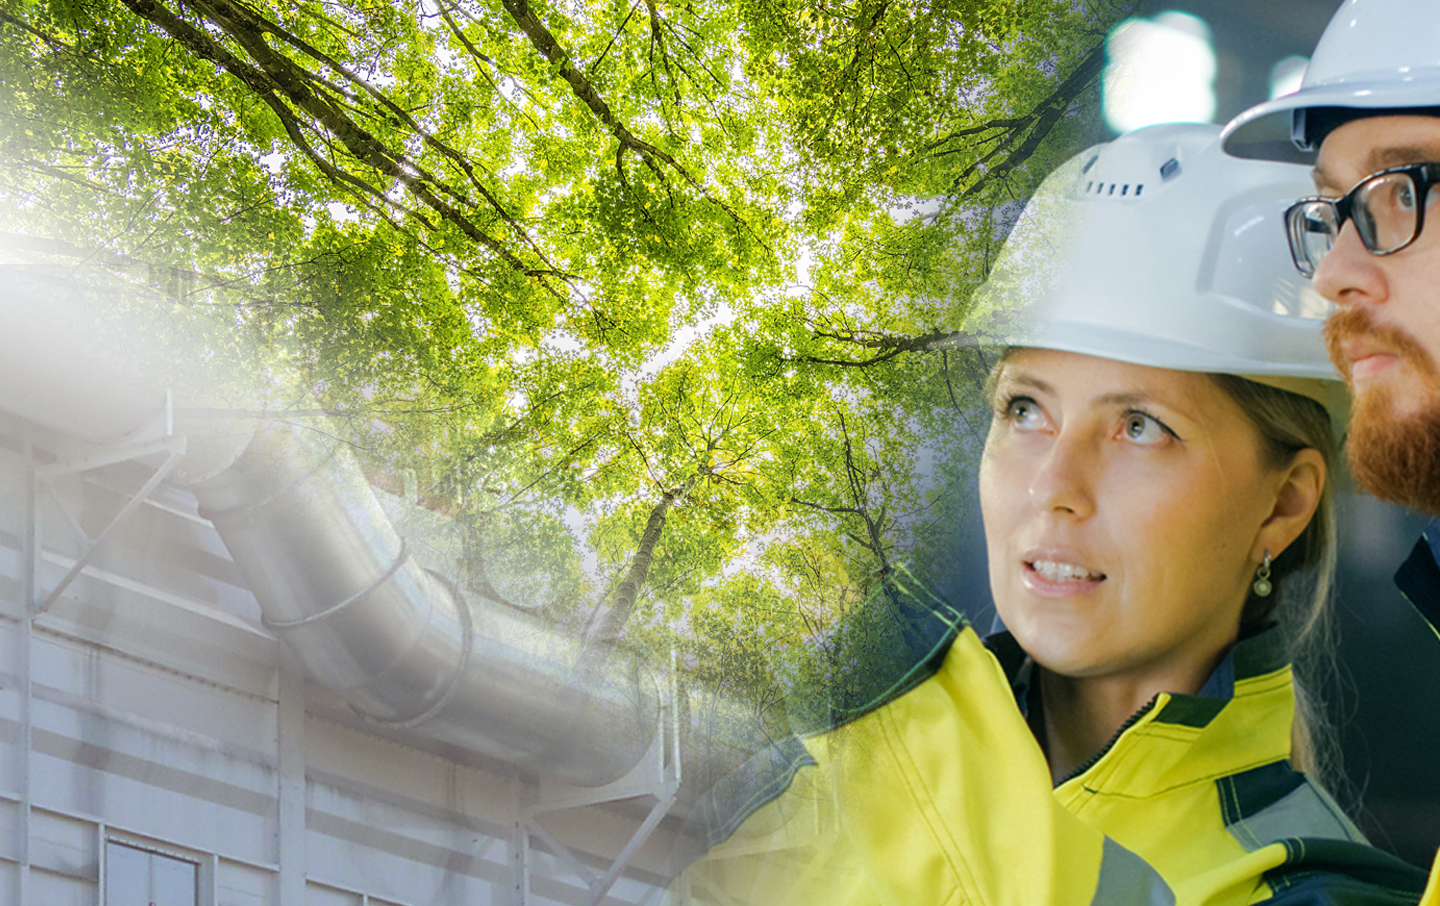
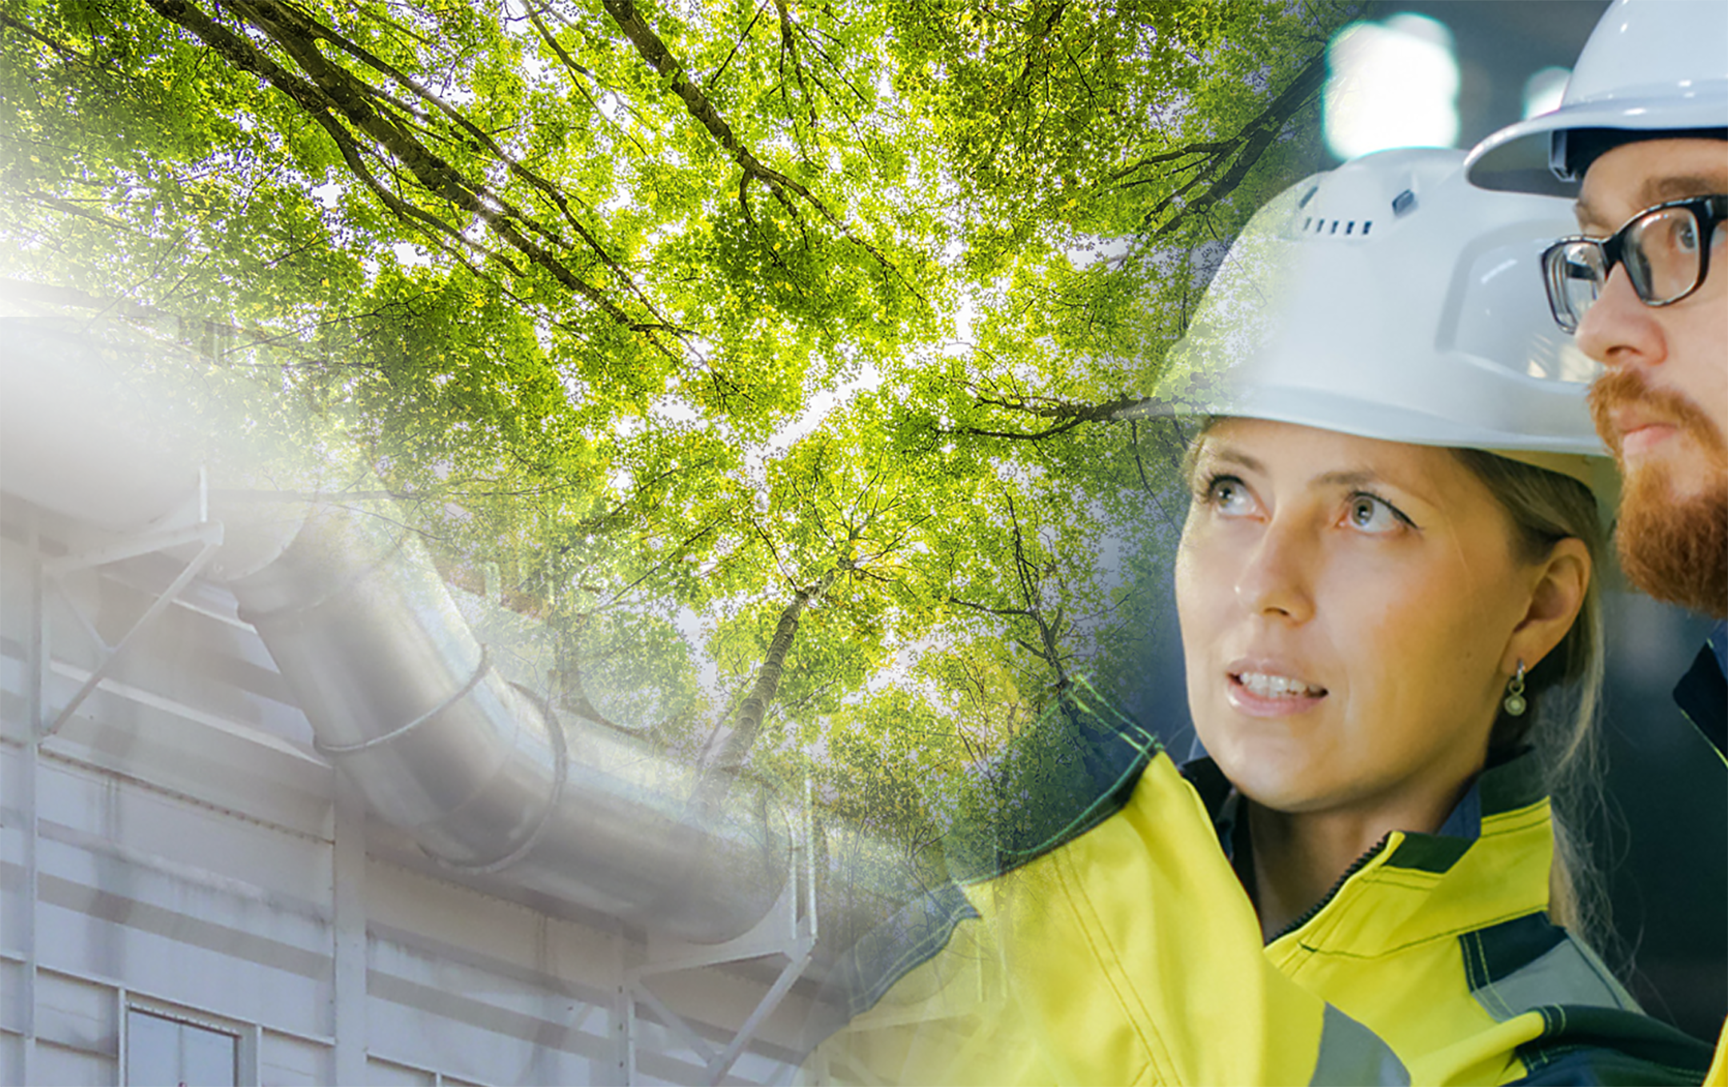
Modif 15h15

diff --git a/assets/css/style.min.css b/assets/css/style.min.css
@@ -1,1 +1,1 @@
-.container{max-width:1200px;width:95%;margin:auto}.w100{width:100%}.w50{width:50%}.btn{background-color:#8bb53c;border-radius:15px;padding:15px 30px;box-shadow:2px 2px 5px rgba(0,0,0,.487);color:#fff;text-transform:uppercase;text-decoration:none;font-weight:600;font-size:18px;display:table;margin-top:20px;transition:.25s all linear}.btn:hover{transform:scale(1.2, 1.2)}.bg-blue{background:#263c59;background-size:50%}*{margin:0;padding:0;box-sizing:border-box}body{font-family:"montserrat";width:calc(100% - 70px)}h1,h2,h3,h4,h5,h6{font-family:"canaro"}img{max-width:100%;height:auto}h2{font-weight:600;font-size:30px;text-transform:uppercase;padding-bottom:30px;color:#263c59;text-align:left}h3{font-weight:600;font-size:16px;text-transform:uppercase;color:#8bb53c;text-align:center}p{font-size:16px}p strong{font-weight:600}@font-face{font-family:"canaro";src:url("fonts/Canaro-Bold.otf");font-weight:bold}@font-face{font-family:"canaro";src:url("fonts/Canaro-SemiBold.otf");font-weight:600}@font-face{font-family:"canaro";src:url("fonts/Canaro-Medium.otf");font-weight:500}@font-face{font-family:"canaro";src:url("fonts/Canaro-Light.otf");font-weight:200}@font-face{font-family:"montserrat";src:url("fonts/Montserrat-VariableFont_wght.ttf")}header{display:flex;align-items:center;height:100wh}header form{display:flex;flex-wrap:wrap;gap:20px;justify-content:space-between;padding:20px}header form input:not([type=submit]){width:100%;border:none;border-bottom:1px solid #000}header form .w50{width:calc(50% - 20px)}header form input[type=submit]{background-color:#8bb53c;border:none;box-shadow:none;padding:20px;color:#fff;font-family:"canaro";font-weight:bold}.logo{width:15%}.logo img{width:100%;height:auto}.menu{width:80%;display:flex;font-size:14px;padding:30px 0}.menu ul{display:flex;justify-content:space-evenly;list-style-type:none;width:100%;text-transform:uppercase}.menu ul li a{display:block;color:#263c59;text-decoration:none;width:100%;height:100%;font-size:16px;font-weight:600}.menucontact{width:70px;background-color:#fff;position:fixed;z-index:1;right:0;top:0;height:100%}.menucontact ul{height:100%;display:flex;flex-direction:column;list-style-type:none;box-shadow:2px 2px 5px #000}.menucontact ul li{width:100%;height:50%;-ms-writing-mode:tb-rl;writing-mode:vertical-rl;text-orientation:mixed;transform:rotate(180deg)}.menucontact ul li:last-child{text-align:right;border-bottom:1px solid #000}.menucontact ul li a{display:flex;justify-content:center;align-items:center;text-decoration:none;width:100%;height:100%;text-align:center;text-transform:uppercase;font-size:16px;font-weight:400;color:#263c59}.projet{display:none;width:calc(100% - 70px);height:100%;background-color:#fff;position:fixed;right:0;top:0;z-index:1}.home .bg-home{background-image:url("../img/home.png");background-size:cover;min-height:calc(100vh - 75px);color:#fff;background-position:right left;-webkit-animation:zoom 50s linear infinite;animation:zoom 50s linear infinite;background-attachment:fixed}@-webkit-keyframes zoom{0%{background-size:100%}50%{background-size:110%}100%{background-size:100%}}@keyframes zoom{0%{background-size:100%}50%{background-size:110%}100%{background-size:100%}}.home .bg-home .bg-black{background-color:rgba(0,0,0,.495);height:100%;min-height:calc(100vh - 75px);display:flex;align-items:center}.home .bg-home .bg-black>div{display:flex}.home .bg-home .bg-black>div h1{text-transform:uppercase;padding:50px 0;font-weight:bold;letter-spacing:5px}.home .bg-home .bg-black>div h1::first-line{font-size:70px}.home .bg-home .bg-black>div h2{color:#fff;padding-bottom:15px;text-align:left;letter-spacing:5px}.home .bg-home .bg-black>div h2:first-of-type{padding-top:0}.home .bg-home .bg-black>div p{line-height:150%}.home .activites{display:flex;flex-wrap:wrap;gap:30px;padding:30px 0}.home .activites .bloc-secteur{width:calc(33.3333333333% - 20px);aspect-ratio:16/9;display:flex;justify-content:center;align-items:flex-end;padding:18px;background-repeat:no-repeat;background-size:cover;position:relative;overflow:hidden;border-radius:15px}.home .activites .bloc-secteur h3{font-weight:600;font-size:16px;background-color:#fff;color:#263c59}.home .activites .bloc-secteur:hover .bloc-contenu{top:0}.home .activites .bloc-secteur .btn{display:block;width:100%;text-align:center}.home .activites .bloc-secteur .btn:hover{transform:scale(1.09, 1.09)}.home .activites .bloc-secteur .bloc-contenu{background-color:rgba(255,255,255,.85);position:absolute;padding:18px;top:100%;left:0;display:flex;width:100%;height:100%;flex-direction:column;justify-content:flex-end;align-items:center;transition:.25s all linear;text-align:center;color:#263c59}.home .activites .agroalimentaire{background-image:url("../img/Agroalimentaire.png")}.home .activites .mineral{background-image:url("../img/minerale.png")}.home .activites .recyclage{background-image:url("../img/Agroalimentaire.png")}.home .activites .caoutchouc{background-image:url("../img/caoutchouc-plastique.png")}.home .activites .bois{background-image:url("../img/bois.png")}.home .activites .mettalurgie{background-image:url("../img/metalurgie.png")}.home .activites .papier{background-image:url("../img/papier-textile.png")}.home .activites .chimie{background-image:url("../img/chimie-pharma.png")}.home .activites .auto{background-image:url("../img/Auto-aero.png")}.home .atex{background-color:#263c59;color:#fff;padding:60px 0}.home .atex .container{display:flex;justify-content:space-between}.home .atex .container h2{color:inherit;text-align:left;padding-top:0}.home .atex .container p{margin-bottom:15px}.home .atex .container div:first-of-type{width:60%}.home .atex .container div:last-of-type{width:30%}.home .atex .container img{border-radius:15px}.home .savoirFaire{padding:60px 0}.home .savoirFaire .bloc-savoirfaire{display:flex;flex-wrap:wrap;align-content:space-evenly;justify-content:center;aspect-ratio:1/1;padding:18px;background:#263c59;border-radius:15px;box-shadow:2px 2px 5px rgba(0,0,0,.509)}.home .savoirFaire .ligneSavoirFaire{display:flex;flex-wrap:wrap;gap:60px}.home .savoirFaire .ligneSavoirFaire div{padding:30px;width:calc(33.3333333333% - 40px)}.home .savoirFaire .ligneSavoirFaire h2{width:100%}.home .savoirFaire .ligneSavoirFaire h3{font-size:18px;color:#fff}.home .savoirFaire .ligneSavoirFaire p{font-size:14px;color:#fff;text-align:center}.home .savoirFaire .ligneSavoirFaire .btn{display:block;width:100%;text-align:center}.home .savoirFaire .ligneSavoirFaire .btn:hover{transform:scale(1.09, 1.09)}.home .produits{display:flex;background:#263c59;padding:60px 0}.home .produits h2{color:#fff;padding:30px 0}.home .realisation{display:flex;padding:60px 0}.bg-footer{background:url("../img/fond footer.png");background-repeat:no-repeat;background-size:cover;border-top:5px solid #8bb53c}.bg-footer nav{margin-bottom:40px}.bg-footer ul{display:flex;justify-content:space-between;list-style-type:none;width:100%;text-transform:uppercase}.bg-footer ul li a{display:block;color:#fff;text-decoration:none;width:100%;font-size:16px;font-weight:600}.bg-footer img{display:block;margin:5% auto;max-width:20%;padding-bottom:30px}.bg-footer hr{border-color:#8bb53c}.bg-footer .ligne{display:flex}.bg-footer .ligne div{width:50%;margin:5%}.bg-footer .d-f{display:flex;margin:30px;justify-content:space-evenly}.bg-footer h3{color:#fff}.bg-footer p{color:#fff;text-align:center;font-size:14px;font-weight:300}.bg-footer a{color:#fff;text-decoration:none;font-size:14px;font-weight:300}.bg-footer i{color:#fff;font-size:32px}.ligne-2{display:flex}.ligne-2 div{border-width:50%;width:50%}/*# sourceMappingURL=style.min.css.map */
+.container{max-width:1200px;width:95%;margin:auto}.w100{width:100%}.w50{width:55%}.btn{background-color:#8bb53c;border-radius:15px;padding:15px 30px;box-shadow:2px 2px 5px rgba(0,0,0,.487);color:#fff;text-transform:uppercase;text-decoration:none;font-weight:600;font-size:18px;display:table;margin-top:20px;transition:.25s all linear}.btn:hover{transform:scale(1.2, 1.2)}.bg-blue{background:#263c59;background-size:50%}*{margin:0;padding:0;box-sizing:border-box}body{font-family:"montserrat";width:calc(100% - 70px)}h1,h2,h3,h4,h5,h6{font-family:"canaro"}img{max-width:100%;height:auto}h2{font-weight:600;font-size:30px;text-transform:uppercase;padding-bottom:30px;color:#263c59;text-align:left}h3{font-weight:600;font-size:16px;text-transform:uppercase;color:#8bb53c;text-align:center}p{font-size:16px}p strong{font-weight:600}@font-face{font-family:"canaro";src:url("fonts/Canaro-Bold.otf");font-weight:bold}@font-face{font-family:"canaro";src:url("fonts/Canaro-SemiBold.otf");font-weight:600}@font-face{font-family:"canaro";src:url("fonts/Canaro-Medium.otf");font-weight:500}@font-face{font-family:"canaro";src:url("fonts/Canaro-Light.otf");font-weight:200}@font-face{font-family:"montserrat";src:url("fonts/Montserrat-VariableFont_wght.ttf")}header{display:flex;align-items:center;height:100wh}header form{display:flex;flex-wrap:wrap;gap:20px;justify-content:space-between;padding:20px}header form input:not([type=submit]){width:100%;border:none;border-bottom:1px solid #000}header form .w50{width:calc(50% - 20px)}header form input[type=submit]{background-color:#8bb53c;border:none;box-shadow:none;padding:20px;color:#fff;font-family:"canaro";font-weight:bold}.logo{width:15%}.logo img{width:100%;height:auto}.menu{width:80%;display:flex;font-size:14px;padding:30px 0}.menu ul{display:flex;justify-content:space-evenly;list-style-type:none;width:100%;text-transform:uppercase}.menu ul li a{display:block;color:#263c59;text-decoration:none;width:100%;height:100%;font-size:16px;font-weight:600}.menucontact{width:70px;background-color:#fff;position:fixed;z-index:1;right:0;top:0;height:100%}.menucontact ul{height:100%;display:flex;flex-direction:column;list-style-type:none;box-shadow:2px 2px 5px #000}.menucontact ul li{width:100%;height:50%;-ms-writing-mode:tb-rl;writing-mode:vertical-rl;text-orientation:mixed;transform:rotate(180deg)}.menucontact ul li:last-child{text-align:right;border-bottom:1px solid #000}.menucontact ul li a{display:flex;justify-content:center;align-items:center;text-decoration:none;width:100%;height:100%;text-align:center;text-transform:uppercase;font-size:16px;font-weight:400;color:#263c59}.projet{display:none;width:calc(100% - 70px);height:100%;background-color:#fff;position:fixed;right:0;top:0;z-index:1}.home .bg-home{min-height:calc(100vh - 75px);color:#fff;position:relative;overflow:hidden}.home .bg-home img{position:absolute;-o-object-fit:cover;object-fit:cover;-o-object-position:right center;object-position:right center;z-index:-1;width:100%;height:100%;-webkit-animation:zoom 55s linear infinite;animation:zoom 55s linear infinite}@-webkit-keyframes zoom{0%{transform:scale(1)}50%{transform:scale(1.2)}100%{transform:scale(1)}}@keyframes zoom{0%{transform:scale(1)}50%{transform:scale(1.2)}100%{transform:scale(1)}}.home .bg-home .bg-black{background-color:rgba(0,0,0,.495);height:100%;min-height:calc(100vh - 75px);display:flex;align-items:center}.home .bg-home .bg-black>div{display:flex}.home .bg-home .bg-black>div h1{text-transform:uppercase;padding:50px 0;font-weight:bold;letter-spacing:5px}.home .bg-home .bg-black>div h1::first-line{font-size:70px}.home .bg-home .bg-black>div h2{color:#fff;padding-bottom:15px;text-align:left;letter-spacing:5px}.home .bg-home .bg-black>div h2:first-of-type{padding-top:0}.home .bg-home .bg-black>div p{line-height:150%}.home .bg-home .bg-black>div a{margin-bottom:30px}.home .activites{display:flex;flex-wrap:wrap;gap:30px;padding:30px 0}.home .activites .bloc-secteur{width:calc(33.3333333333% - 20px);aspect-ratio:16/9;display:flex;justify-content:center;align-items:flex-end;padding:18px;background-repeat:no-repeat;background-size:cover;position:relative;overflow:hidden;border-radius:15px}.home .activites .bloc-secteur h3{font-weight:600;font-size:16px;background-color:#fff;color:#263c59}.home .activites .bloc-secteur:hover .bloc-contenu{top:0}.home .activites .bloc-secteur .btn{display:block;width:100%;text-align:center}.home .activites .bloc-secteur .btn:hover{transform:scale(1.09, 1.09)}.home .activites .bloc-secteur .bloc-contenu{background-color:rgba(255,255,255,.85);position:absolute;padding:18px;top:100%;left:0;display:flex;width:100%;height:100%;flex-direction:column;justify-content:flex-end;align-items:center;transition:.25s all linear;text-align:center;color:#263c59}.home .activites .agroalimentaire{background-image:url("../img/Agroalimentaire.png")}.home .activites .mineral{background-image:url("../img/minerale.png")}.home .activites .recyclage{background-image:url("../img/Agroalimentaire.png")}.home .activites .caoutchouc{background-image:url("../img/caoutchouc-plastique.png")}.home .activites .bois{background-image:url("../img/bois.png")}.home .activites .mettalurgie{background-image:url("../img/metalurgie.png")}.home .activites .papier{background-image:url("../img/papier-textile.png")}.home .activites .chimie{background-image:url("../img/chimie-pharma.png")}.home .activites .auto{background-image:url("../img/Auto-aero.png")}.home .atex{background-color:#263c59;color:#fff;padding:60px 0}.home .atex .container{display:flex;justify-content:space-between}.home .atex .container h2{color:inherit;text-align:left;padding-top:0}.home .atex .container p{margin-bottom:15px}.home .atex .container div:first-of-type{width:60%}.home .atex .container div:last-of-type{width:30%}.home .atex .container img{border-radius:15px}.home .savoirFaire{padding:60px 0}.home .savoirFaire .bloc-savoirfaire{display:flex;flex-wrap:wrap;align-content:space-evenly;justify-content:center;aspect-ratio:1/1;padding:18px;background:#263c59;border-radius:15px;box-shadow:2px 2px 5px rgba(0,0,0,.509)}.home .savoirFaire .ligneSavoirFaire{display:flex;flex-wrap:wrap;gap:60px}.home .savoirFaire .ligneSavoirFaire div{padding:30px;width:calc(33.3333333333% - 40px)}.home .savoirFaire .ligneSavoirFaire h2{width:100%}.home .savoirFaire .ligneSavoirFaire h3{font-size:18px;color:#fff}.home .savoirFaire .ligneSavoirFaire p{font-size:14px;color:#fff;text-align:center}.home .savoirFaire .ligneSavoirFaire .btn{display:block;width:100%;text-align:center}.home .savoirFaire .ligneSavoirFaire .btn:hover{transform:scale(1.09, 1.09)}.home .produits{display:flex;background:#263c59;padding:60px 0}.home .produits h2{color:#fff;padding:30px 0}.home .realisation{display:flex;padding:60px 0}.bg-footer{background:url("../img/fond footer.png");background-repeat:no-repeat;background-size:cover;border-top:5px solid #8bb53c}.bg-footer nav{margin-bottom:40px}.bg-footer ul{display:flex;justify-content:space-between;list-style-type:none;width:100%;text-transform:uppercase}.bg-footer ul li a{display:block;color:#fff;text-decoration:none;width:100%;font-size:16px;font-weight:600}.bg-footer img{display:block;margin:5% auto;max-width:20%;padding-bottom:30px}.bg-footer hr{border-color:#8bb53c}.bg-footer .ligne{display:flex}.bg-footer .ligne div{width:50%;margin:5%}.bg-footer .d-f{display:flex;margin:30px;justify-content:space-evenly}.bg-footer h3{color:#fff}.bg-footer p{color:#fff;text-align:center;font-size:14px;font-weight:300}.bg-footer a{color:#fff;text-decoration:none;font-size:14px;font-weight:300}.bg-footer i{color:#fff;font-size:32px}.ligne-2{display:flex}.ligne-2 div{border-width:50%;width:50%}/*# sourceMappingURL=style.min.css.map */

diff --git a/assets/css/style.css b/assets/css/style.css
@@ -10,7 +10,7 @@
 }
 
 .w50 {
-  width: 50%;
+  width: 55%;
 }
 
 .btn {
@@ -225,36 +225,44 @@ header form input[type=submit] {
 }
 
 .home .bg-home {
-  background-image: url("../img/home.png");
-  background-size: cover;
   min-height: calc(100vh - 75px);
   color: white;
-  /******* effet parallax****/
-  background-position: right left;
-  -webkit-animation: zoom 50s linear infinite;
-          animation: zoom 50s linear infinite;
-  background-attachment: fixed;
+  position: relative;
+  overflow: hidden;
+  /* effet parallax */
+}
+.home .bg-home img {
+  position: absolute;
+  -o-object-fit: cover;
+     object-fit: cover;
+  -o-object-position: right center;
+     object-position: right center;
+  z-index: -1;
+  width: 100%;
+  height: 100%;
+  -webkit-animation: zoom 55s linear infinite;
+          animation: zoom 55s linear infinite;
 }
 @-webkit-keyframes zoom {
   0% {
-    background-size: 100%;
+    transform: scale(1);
   }
   50% {
-    background-size: 110%;
+    transform: scale(1.2);
   }
   100% {
-    background-size: 100%;
+    transform: scale(1);
   }
 }
 @keyframes zoom {
   0% {
-    background-size: 100%;
+    transform: scale(1);
   }
   50% {
-    background-size: 110%;
+    transform: scale(1.2);
   }
   100% {
-    background-size: 100%;
+    transform: scale(1);
   }
 }
 .home .bg-home .bg-black {
@@ -287,6 +295,9 @@ header form input[type=submit] {
 }
 .home .bg-home .bg-black > div p {
   line-height: 150%;
+}
+.home .bg-home .bg-black > div a {
+  margin-bottom: 30px;
 }
 .home .activites {
   display: flex;

diff --git a/assets/index.html b/assets/index.html
@@ -80,13 +80,14 @@
 		<main>
 			<!----- début de section accueil ----->
 			<section class="bg-home">
+				<img src="/assets/img/home.png" alt="" />
 				<div class="bg-black">
 					<div class="container">
 						<!----- début TXT+CTA ----->
 						<div class="w50">
 							<h1>ingénierie traitement de l'air</h1>
-							<h2>30 ans d’expérience...</h2>
-							<p><strong>...Basée dans le Nord de la France à Templemars</strong>, Nexair vous accompagne, de l’étude à la mise en oeuvre de vos installations, pour tout projet de <strong>dépoussiérage, ventilation, transport pneumatique ou nettoyage centralisé,</strong> avec un seul et même objectif: <strong> fournir une solution sur mesure et un accompagnement sur le long terme.</strong></p>
+							<h2>30 ans d’expérience ...</h2>
+							<p><strong>... Basée dans le Nord de la France à Templemars</strong>, Nexair vous accompagne, de l’étude à la mise en oeuvre de vos installations, pour tout projet de <strong>dépoussiérage, ventilation, transport pneumatique ou nettoyage centralisé,</strong> avec un seul et même objectif: <strong> fournir une solution sur mesure et un accompagnement sur le long terme.</strong></p>
 							<a href="#" class="btn">Voir nos réalisations</a>
 							<h2>Audit - étude - conseil</h2>
 						</div>

diff --git a/assets/sass/_home.scss b/assets/sass/_home.scss
@@ -1,24 +1,31 @@
 .home {
 	.bg-home {
-		background-image: url("../img/home.png");
-		background-size: cover;
 		min-height: calc(100vh - 75px);
 		color: white;
+		position: relative;
+		overflow: hidden;
 
-		/******* effet parallax****/
-		background-position: right left;
-		animation: zoom 50s linear infinite;
-		background-attachment: fixed;
+		img {
+			position: absolute;
+			object-fit: cover;
+			object-position: right center;
+			z-index: -1;
+			width: 100%;
+			height: 100%;
+			animation: zoom 55s linear infinite;
+		}
+
+		/* effet parallax */
 
 		@keyframes zoom {
 			0% {
-				background-size: 100%;
+				transform: scale(1);
 			}
 			50% {
-				background-size: 110%;
+				transform: scale(1.2);
 			}
 			100% {
-				background-size: 100%;
+				transform: scale(1);
 			}
 		}
 
@@ -51,6 +58,9 @@
 				}
 				p {
 					line-height: 150%;
+				}
+				a {
+					margin-bottom: 30px;
 				}
 			}
 		}

diff --git a/assets/sass/_utilitaires.scss b/assets/sass/_utilitaires.scss
@@ -12,7 +12,7 @@ $transition: 0.25s all linear;
 	width: 100%;
 }
 .w50 {
-	width: 50%;
+	width: 55%;
 }
 
 .btn {
